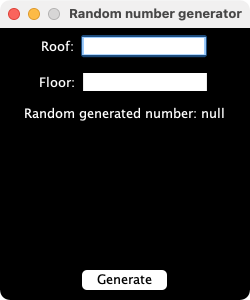
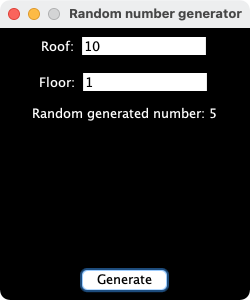
fixed error message

diff --git a/graphics.java b/graphics.java
@@ -3,14 +3,15 @@ import java.awt.event.*;
 import javax.swing.*;
 
 public class graphics extends JFrame implements ActionListener {
+        JFrame window = new JFrame();
     private JTextField floorTF;
     private JTextField roofTF;
     private JButton Generate;
     private JLabel generatedNumber = new JLabel("Random generated number: null");
+    private JLabel errorMsg = new JLabel("No input in one or both textfields.");
     backend backendAccess = null;
 
     public graphics(backend backendAccess) {
-        JFrame window = new JFrame();
         this.backendAccess = backendAccess;
         window.getContentPane().setLayout(new BorderLayout());
         window.setSize(250, 300);
@@ -57,18 +58,16 @@ public class graphics extends JFrame implements ActionListener {
         window.add(buttonPanel, BorderLayout.PAGE_END);
 
         window.setVisible(true);
+        window.setVisible(true);
     }
-
-    public void actionPerformed(ActionEvent e) throws NoInputException {
-        if (e.getSource() == Generate) {
-            String f = this.floorTF.getText();
-            String r = this.roofTF.getText();
-            if (f.length() > 0 && r.length() > 0) {
-                this.setBoundaries(Integer.parseInt(f), Integer.parseInt(r));
-                this.generatedNumber.setText("Random generated number: " + this.generateRandomNumber());
-            } else {
-                throw new NoInputException("There is no input in one or both textfields.");
-            }
+    public void actionPerformed(ActionEvent e) {
+        String f = this.floorTF.getText();
+        String r = this.roofTF.getText();
+        if (e.getSource() == Generate && r.length() > 0 && f.length() > 0) {
+            this.setBoundaries(Integer.parseInt(f), Integer.parseInt(r));
+            this.generatedNumber.setText("Random generated number: " + this.generateRandomNumber());
+        } else {
+            this.generatedNumber.setText("No input in one or both textfield");
         }
     }
 

diff --git a/frontend.java b/frontend.java
@@ -3,7 +3,7 @@ public class frontend {
     public static void main(String[] args) {
         try {
             new graphics(new backend());
-        } catch (NoInputException e) {
+        } catch (Exception e) {
             System.out.println(e);
         }
     }
